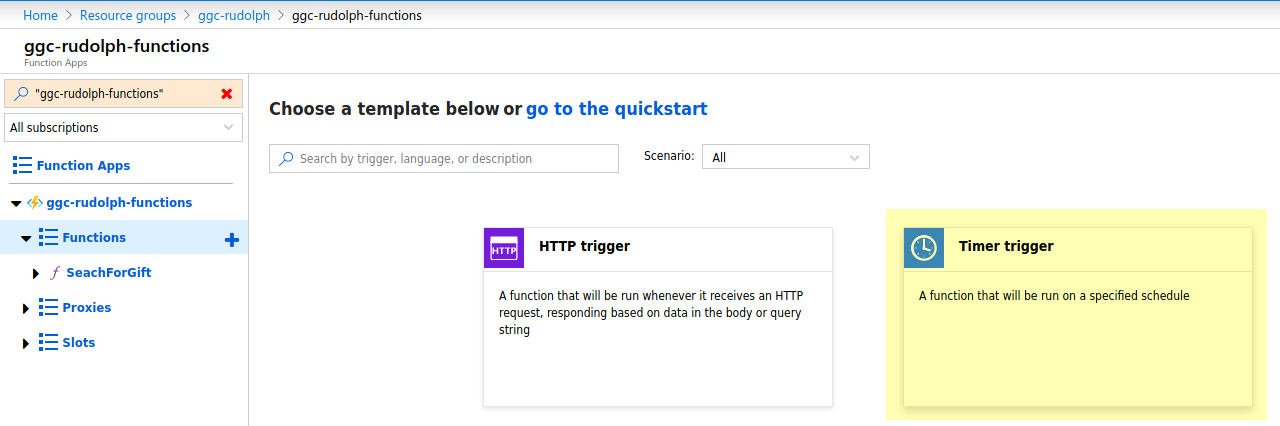
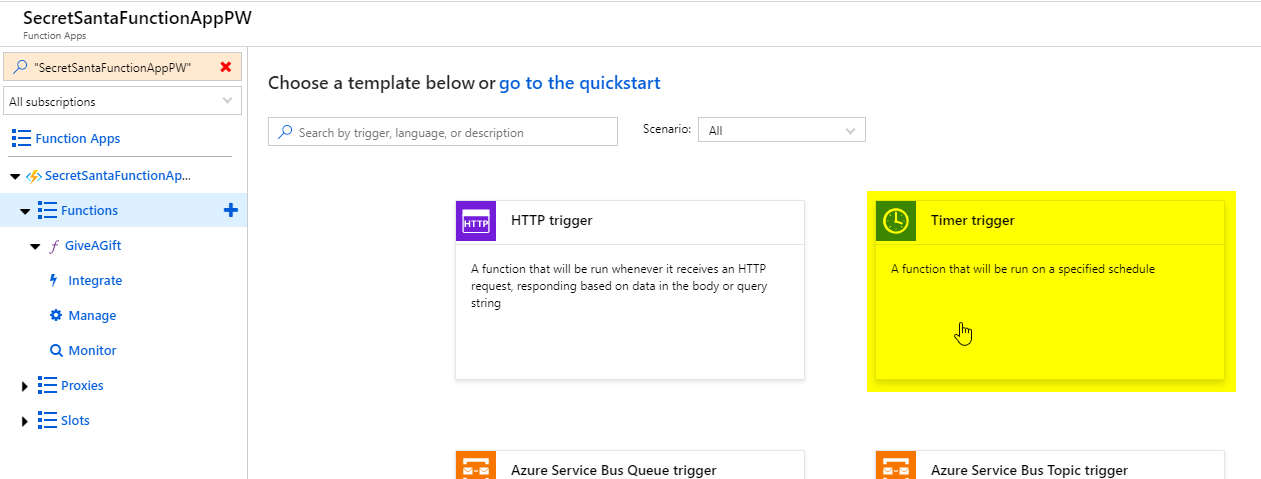
Correction to naming - DrawAGift and christmastree

diff --git a/04_azure_functions_ctd/README.md b/04_azure_functions_ctd/README.md
@@ -24,7 +24,7 @@ First, we need to make sure that we have a place where we can put out gifts - a 
 
 ![New blob container creation](screenshots/storage_new_container.png?raw=true "New blob container creation")
 
-Secondly, we need to make an Azure Function, and this time, instead of HttpTrigger, we will use a Timer Trigger. Open your Azure Function App and follow those steps:
+Secondly, we need to make an Azure Function, and this time, instead of HttpTrigger, we will use a Timer Trigger. Open your Azure Function App and create a new function called "DrawAGift" following these steps:
 
 ![New function creation](screenshots/functions_new_timer_01.png?raw=true "New function creation")
 ![Timer triggered function](screenshots/functions_new_timer_02.png?raw=true "Timer triggered function")
@@ -45,7 +45,7 @@ Azure Functions allow you to use external libraries from public Nuget repository
 ![Add new file](screenshots/functions_files_02.png?raw=true "Add new file")
 ![Name it function.proj](screenshots/functions_files_03.png?raw=true "Name it function.proj")
 
-Inside the `function.proj` file paste in the following:
+Inside the `function.proj` file paste the following:
 
 ```xml
 <Project Sdk="Microsoft.NET.Sdk">
@@ -70,9 +70,9 @@ Inside the `function.proj` file paste in the following:
 
 Before we start coding, we need to come up with a rough plan on what our function needs to do. When we put down the information textually it will go something like this:
 
-1. Connect to the "common blob container" - let's call it the xmastree
+1. Connect to the "common blob container" - let's call it the christmastree
 2. Connect to the "private blob container" - this one we will call the stocking
-3. List all of the blobs/gifts in xmastree
+3. List all of the blobs/gifts in christmastree
 4. Choose a random gift from the list
 5. "Move" it to the stocking
 
@@ -84,7 +84,7 @@ using Microsoft.Azure.Storage;
 using Microsoft.Azure.Storage.Blob;
 
 // Connection strings for both Storage Accounts:
-// The xmastree is the "common storage" of gifts
+// The christmastree is the "common storage" of gifts
 const string xmastreeStorageConnectionString = "you'll get this during the workshops";
 // The stocking is your personal storage for your gift
 const string stockingStorageConnectionString = "you'll paste your own connection string here";
@@ -123,10 +123,10 @@ public static void Run(TimerInfo myTimer, ILogger log)
     Click to expand/collapse
 </summary>
 
-The first part of the function body scaffolding contains a reference to connection strings. We need two of those - the connection string for xmastree will be shared with you during the workshops. Paste that connection string in the quotes in following place in the scaffolding:
+The first part of the function body scaffolding contains a reference to connection strings. We need two of those - the connection string for christmastree will be shared with you during the workshops. Paste that connection string in the quotes in following place in the scaffolding:
 
 ```cs
-// The xmastree is the "common storage" of gifts
+// The christmastree is the "common storage" of gifts
 const string xmastreeStorageConnectionString = "you'll get this during the workshops";
 ```
 
@@ -165,7 +165,7 @@ Now, since we have the connection strings, we can connect to the storage account
     var xmasTreeCloudBlobClient = xmasTreeStorageAccount.CreateCloudBlobClient();
     var stockingCloudBlobClient = stockingStorageAccount.CreateCloudBlobClient();
     // Reference xmastree and stocking containers
-    var xmasTreeCloudBlobContainer = xmasTreeCloudBlobClient.GetContainerReference("xmastree");
+    var xmasTreeCloudBlobContainer = xmasTreeCloudBlobClient.GetContainerReference("christmastree");
     var stockingCloudBlobContainer = stockingCloudBlobClient.GetContainerReference("stocking");
 ```
 
@@ -178,7 +178,7 @@ Now, since we have the connection strings, we can connect to the storage account
     Click to expand/collapse
 </summary>
 
-Now that we have objects representing the blob containers, we can do operations on them. First of all we need to get all of the available gifts in the xmastree container. We generally use `ListBlobs` method, but in addition we need to do some small operations so that the blobs are usable to us - we need to cast the returned objects to specific type and we need to have results in a list. In the end, what we get for step 3. is the following (plug this code into your scaffolding):
+Now that we have objects representing the blob containers, we can do operations on them. First of all we need to get all of the available gifts in the christmastree container. We generally use `ListBlobs` method, but in addition we need to do some small operations so that the blobs are usable to us - we need to cast the returned objects to specific type and we need to have results in a list. In the end, what we get for step 3. is the following (plug this code into your scaffolding):
 
 ```cs
     // 3. List the blobs in the container.
